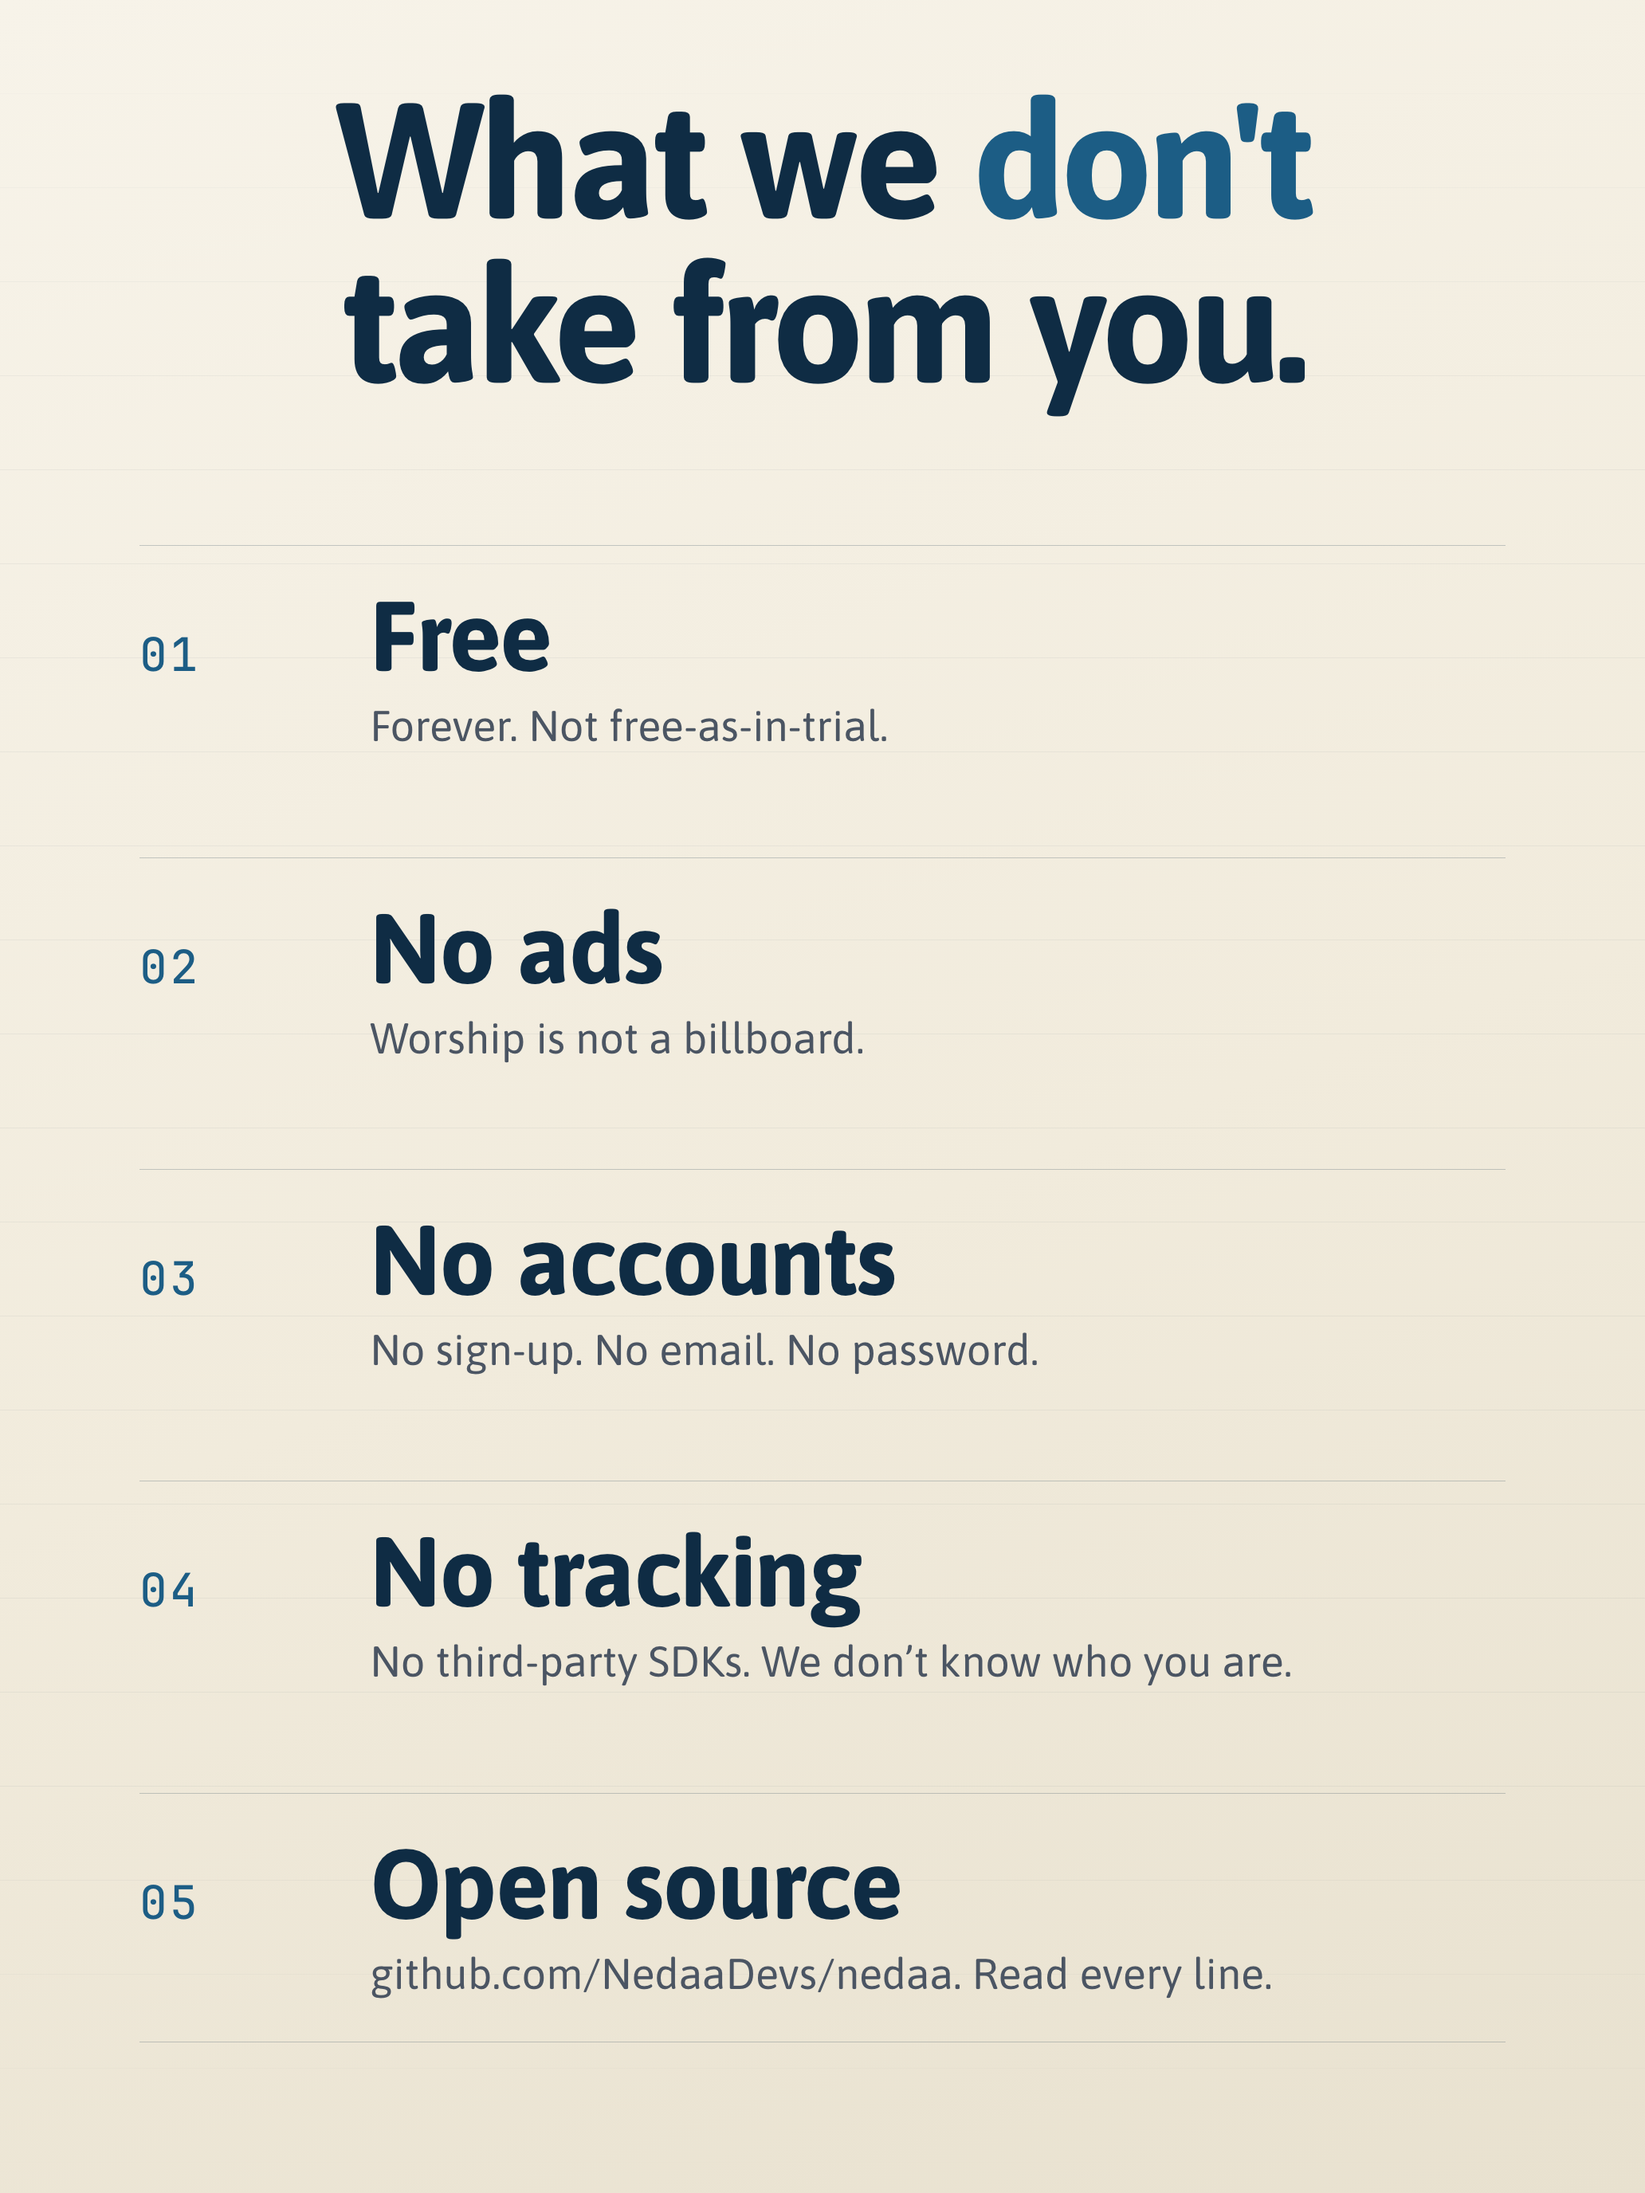
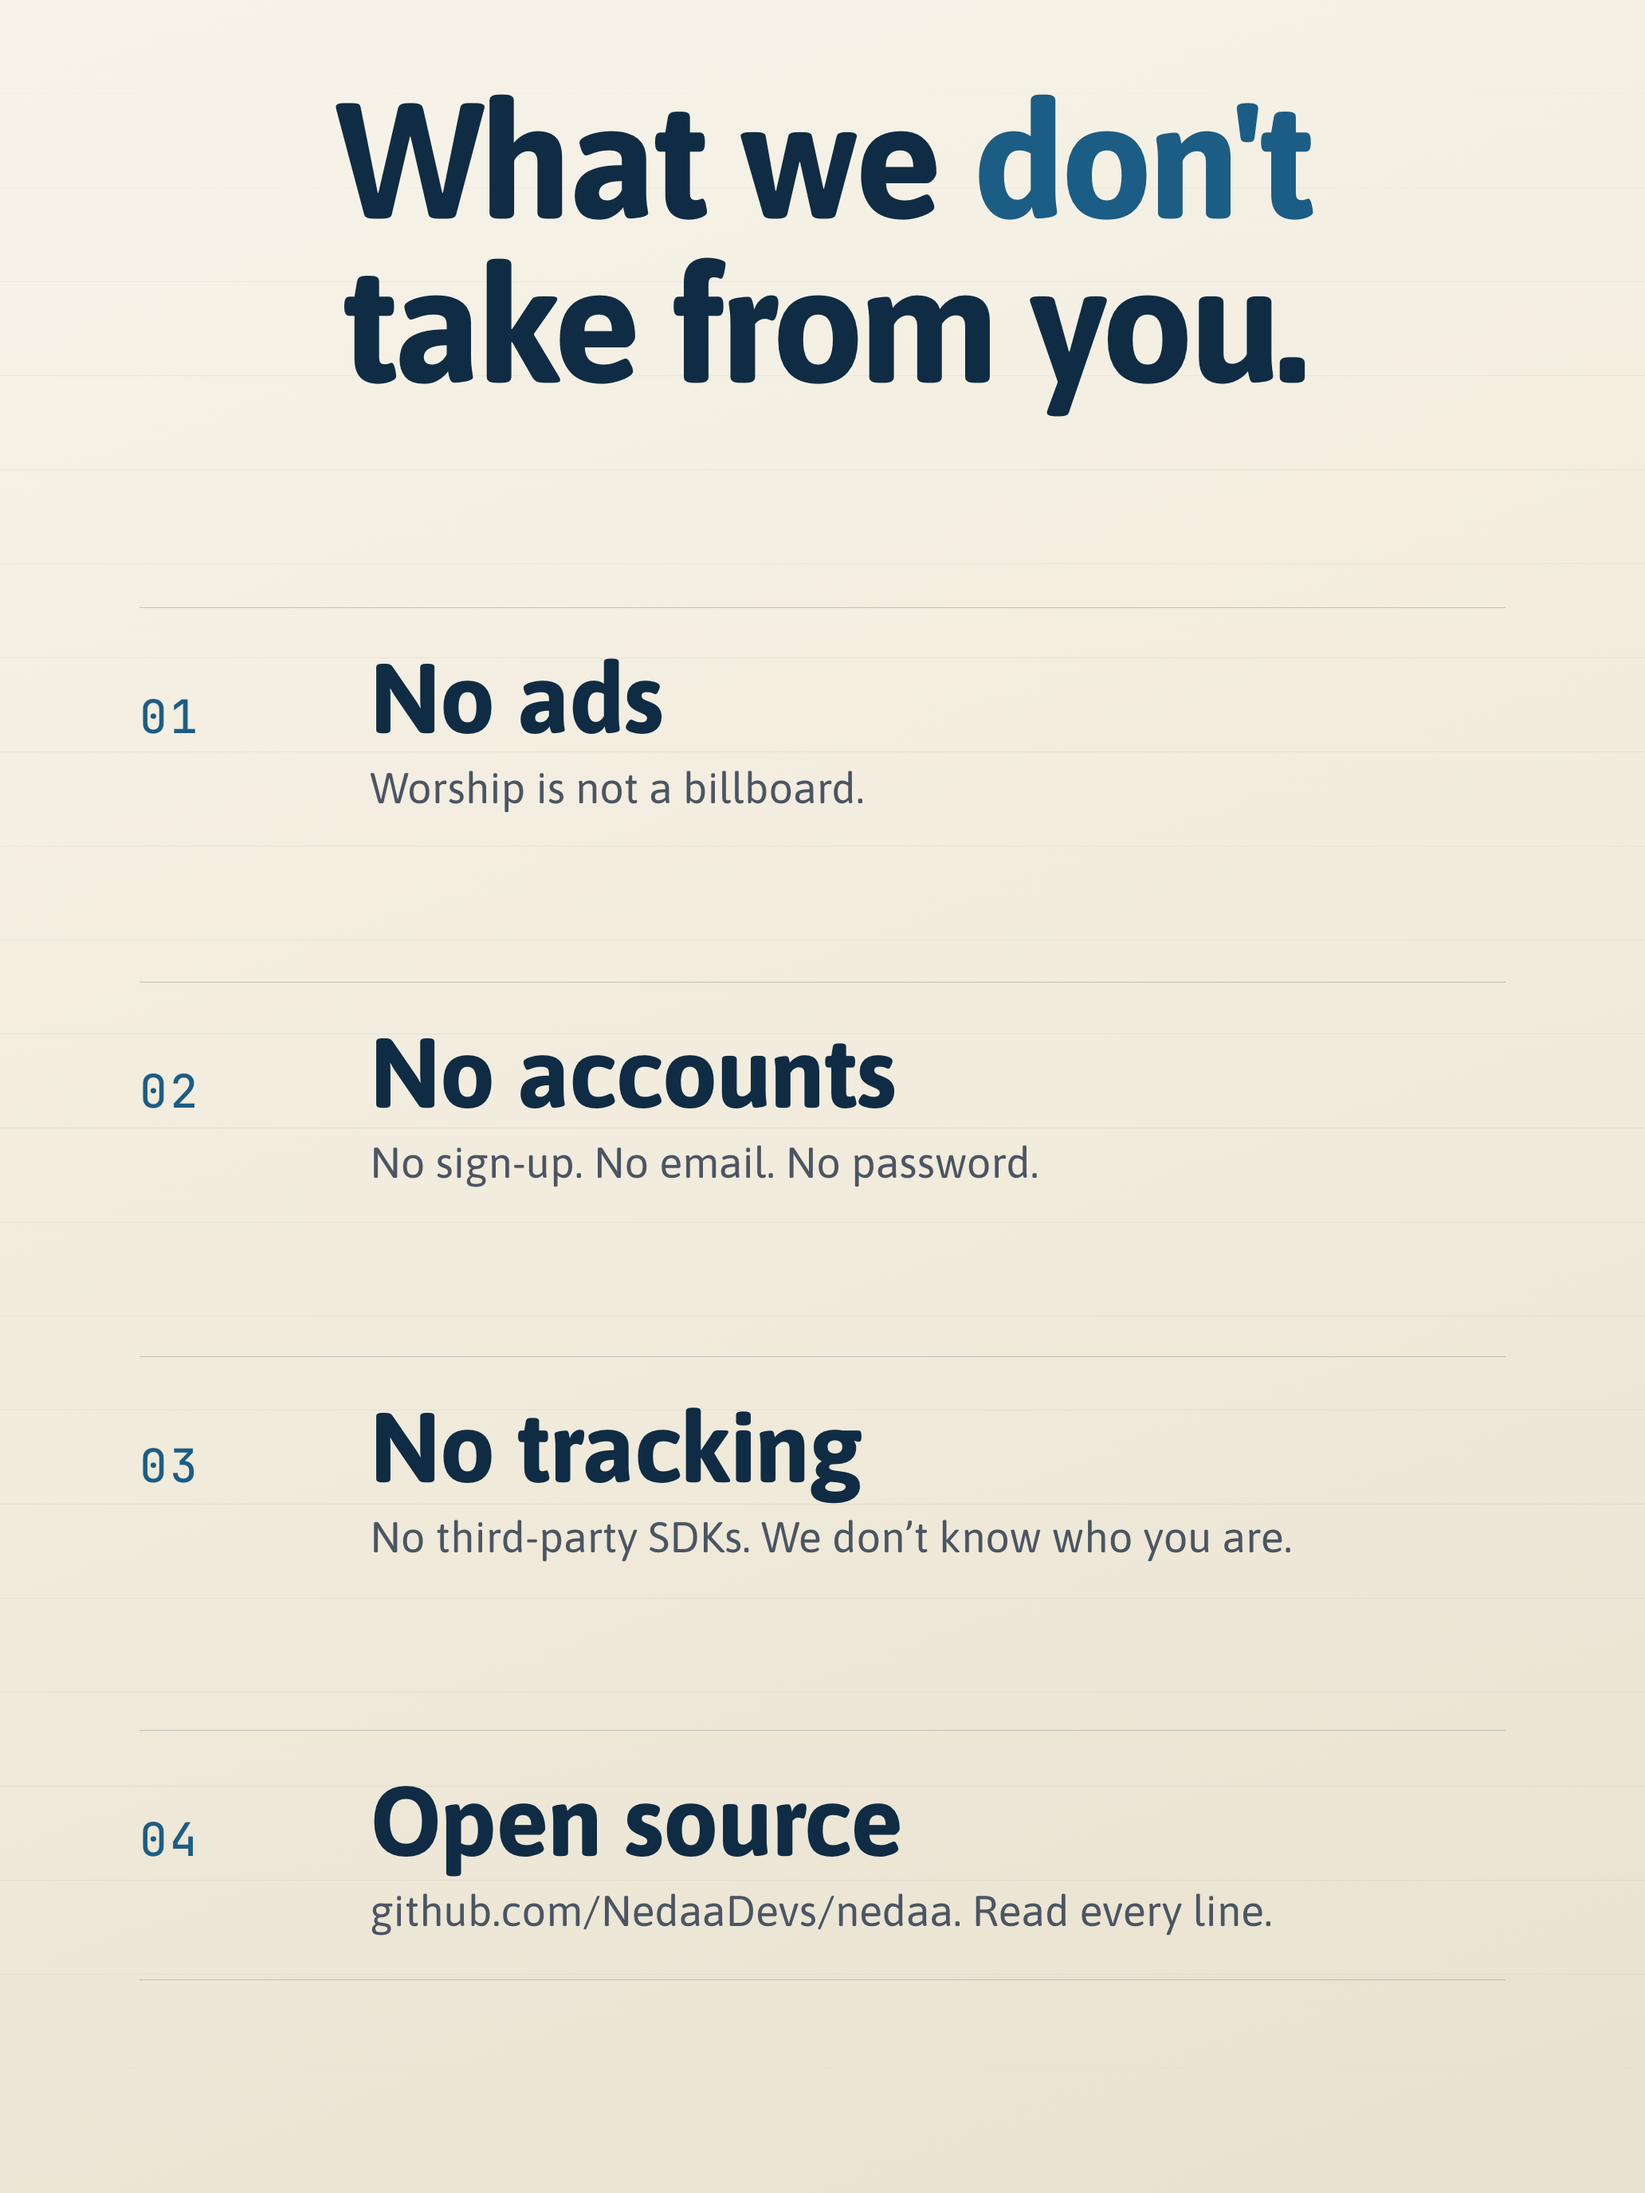
fix(store): remove price references from screenshots and promo text

diff --git a/scripts/screenshots/render-variant.ts b/scripts/screenshots/render-variant.ts
@@ -459,7 +459,6 @@ const PROMISES_COPY: Record<
     headlineLine1Italic: "don't",
     headlineLine2: "take from you.",
     rows: [
-      { key: "Free", body: "Forever. Not free-as-in-trial." },
       { key: "No ads", body: "Worship is not a billboard." },
       { key: "No accounts", body: "No sign-up. No email. No password." },
       { key: "No tracking", body: "No third-party SDKs. We don’t know who you are." },
@@ -471,7 +470,6 @@ const PROMISES_COPY: Record<
     headlineLine1Italic: "لا",
     headlineLine2: "نأخذه منك.",
     rows: [
-      { key: "مجاني", body: "إلى الأبد. ليس مجرّد فترة تجريبية." },
       { key: "بلا إعلانات", body: "العبادة ليست لوحة إعلانات." },
       { key: "بلا حسابات", body: "بلا تسجيل، ولا بريد، ولا كلمة مرور." },
       { key: "بلا تتبّع", body: "لا أنظمة تتبّع خارجية. لا نعرف من أنت." },
@@ -489,7 +487,7 @@ function promisesHtml(opts: { device: DeviceSpec; locale: "en" | "ar" }): string
   const W = device.width;
   const H = device.height;
 
-  // Responsive, no phone: a headline band on top, then the five rows are
+  // Responsive, no phone: a headline band on top, then the rows are
   // distributed to fill the remaining height so there is no dead space at the
   // bottom on either canvas (iOS 1290x2796 / Android 1080x1920).
   const HEADLINE_BAND = Math.round(H * 0.22);
